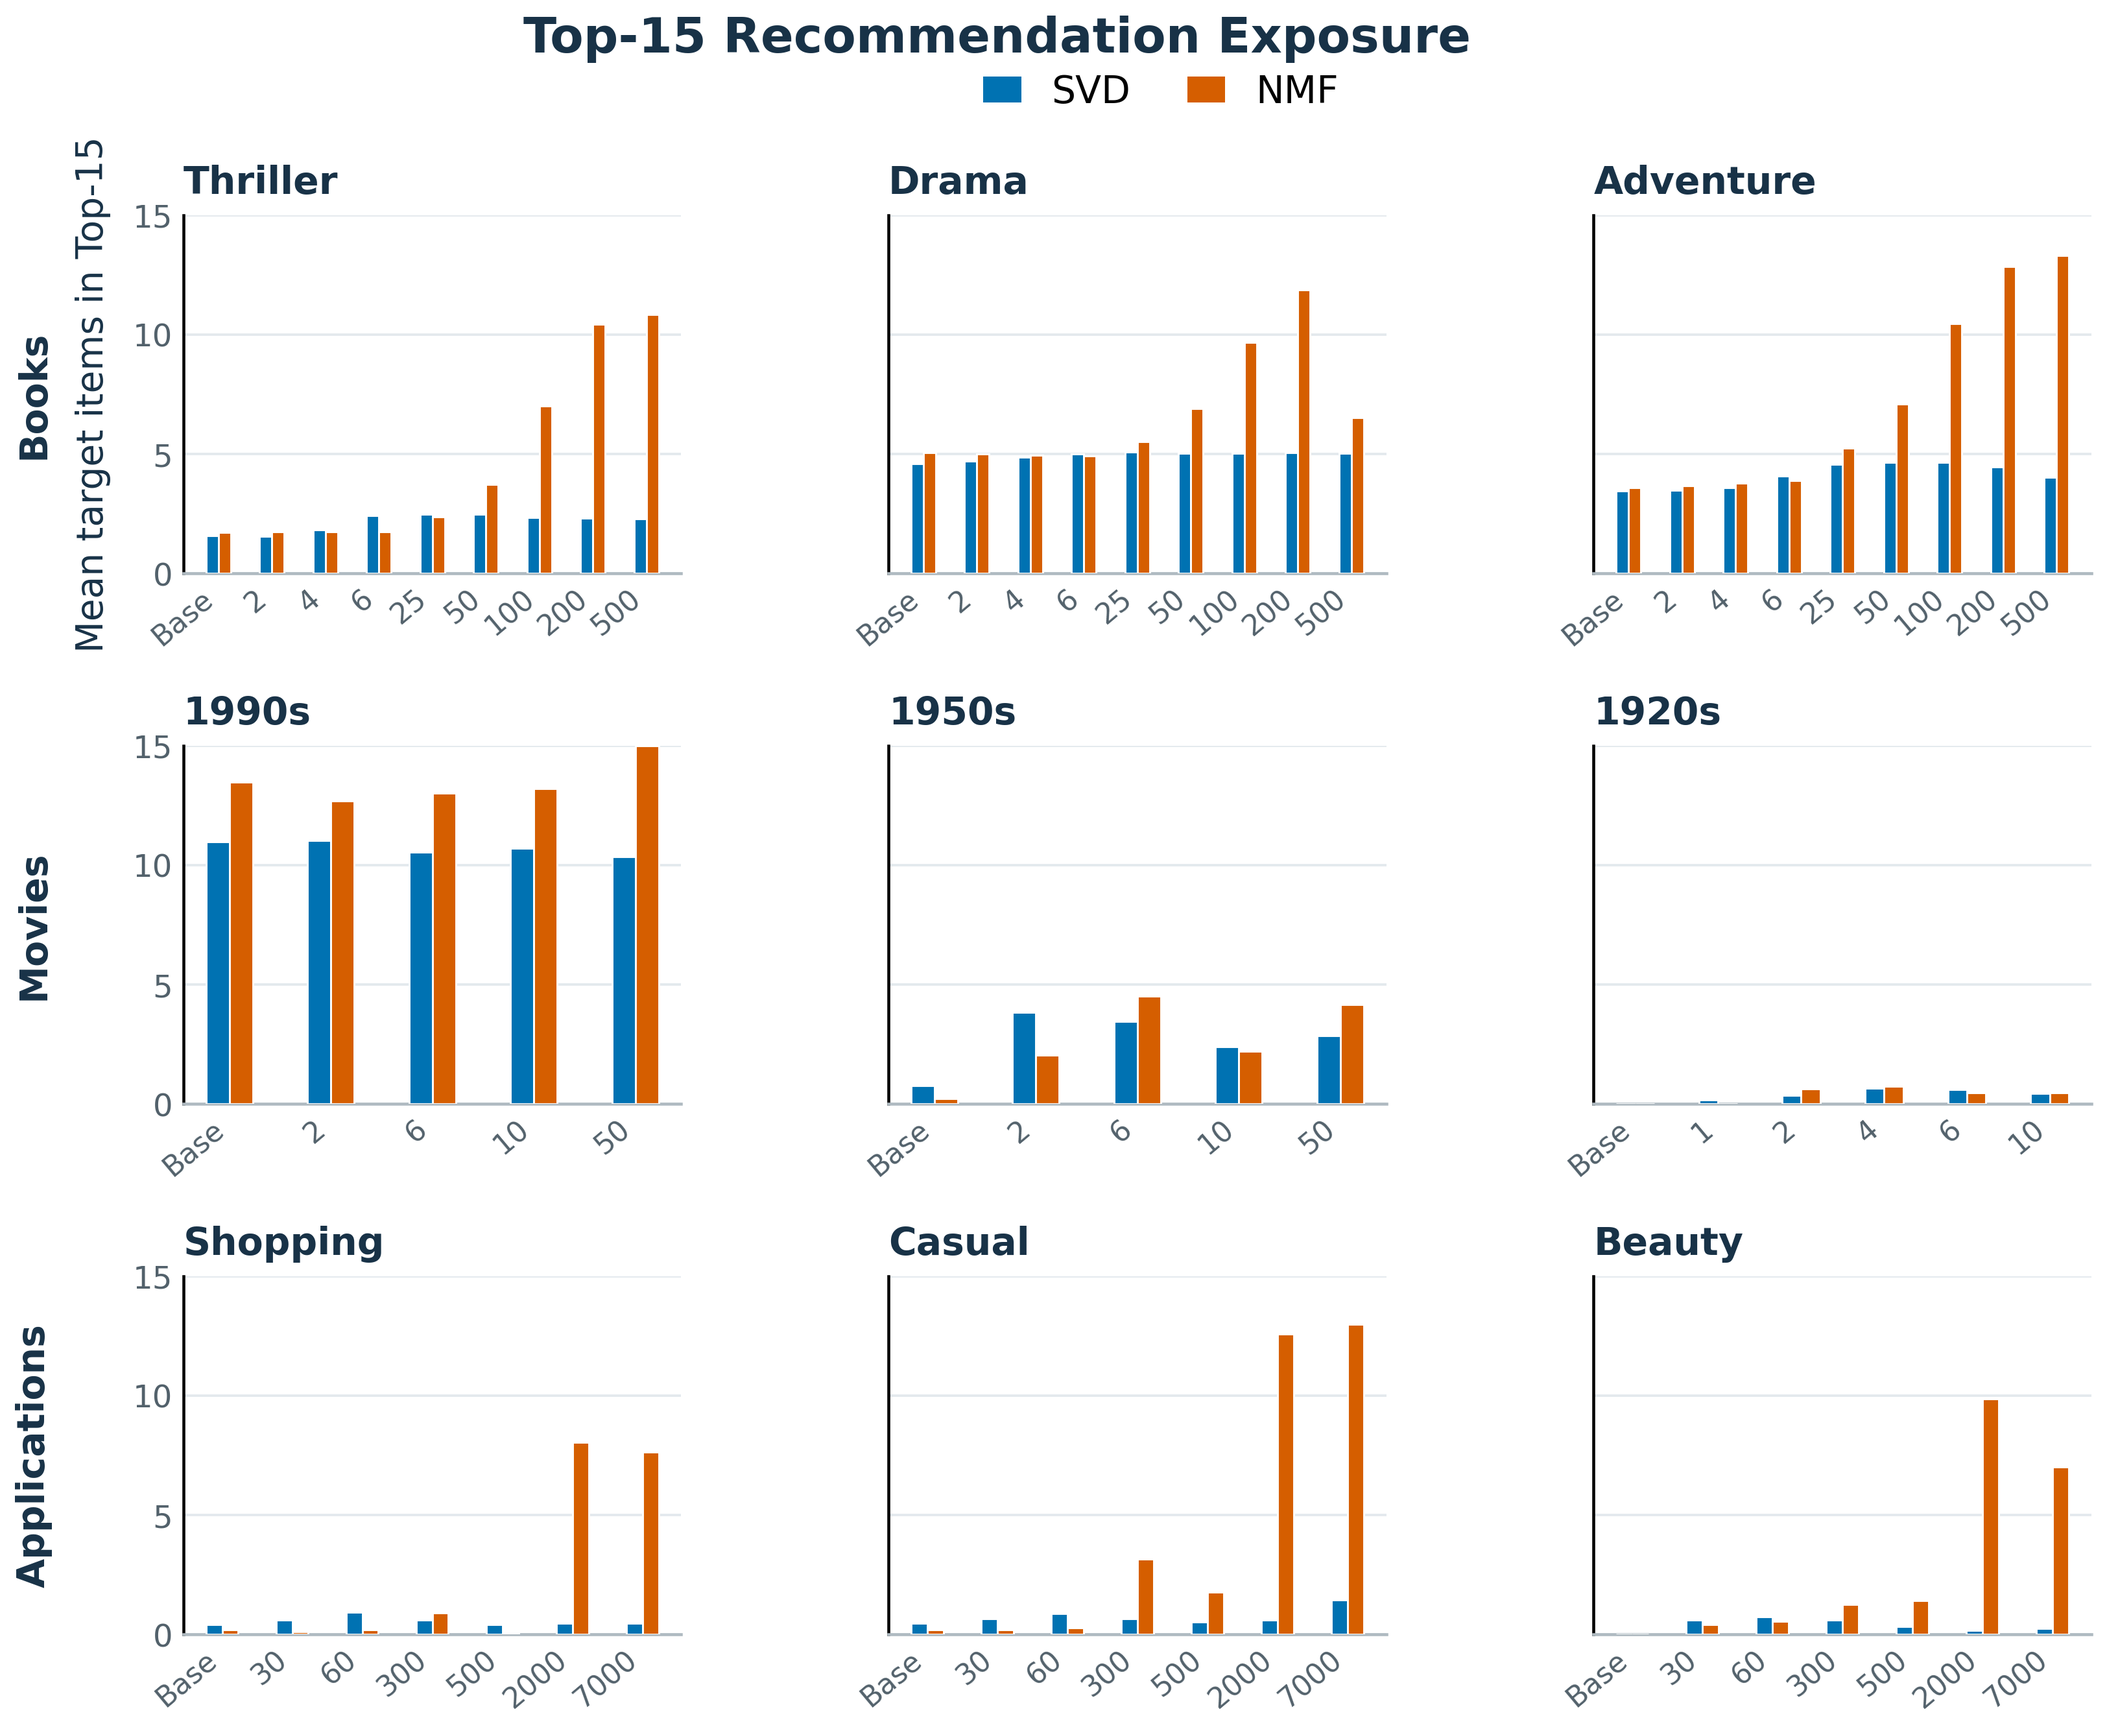
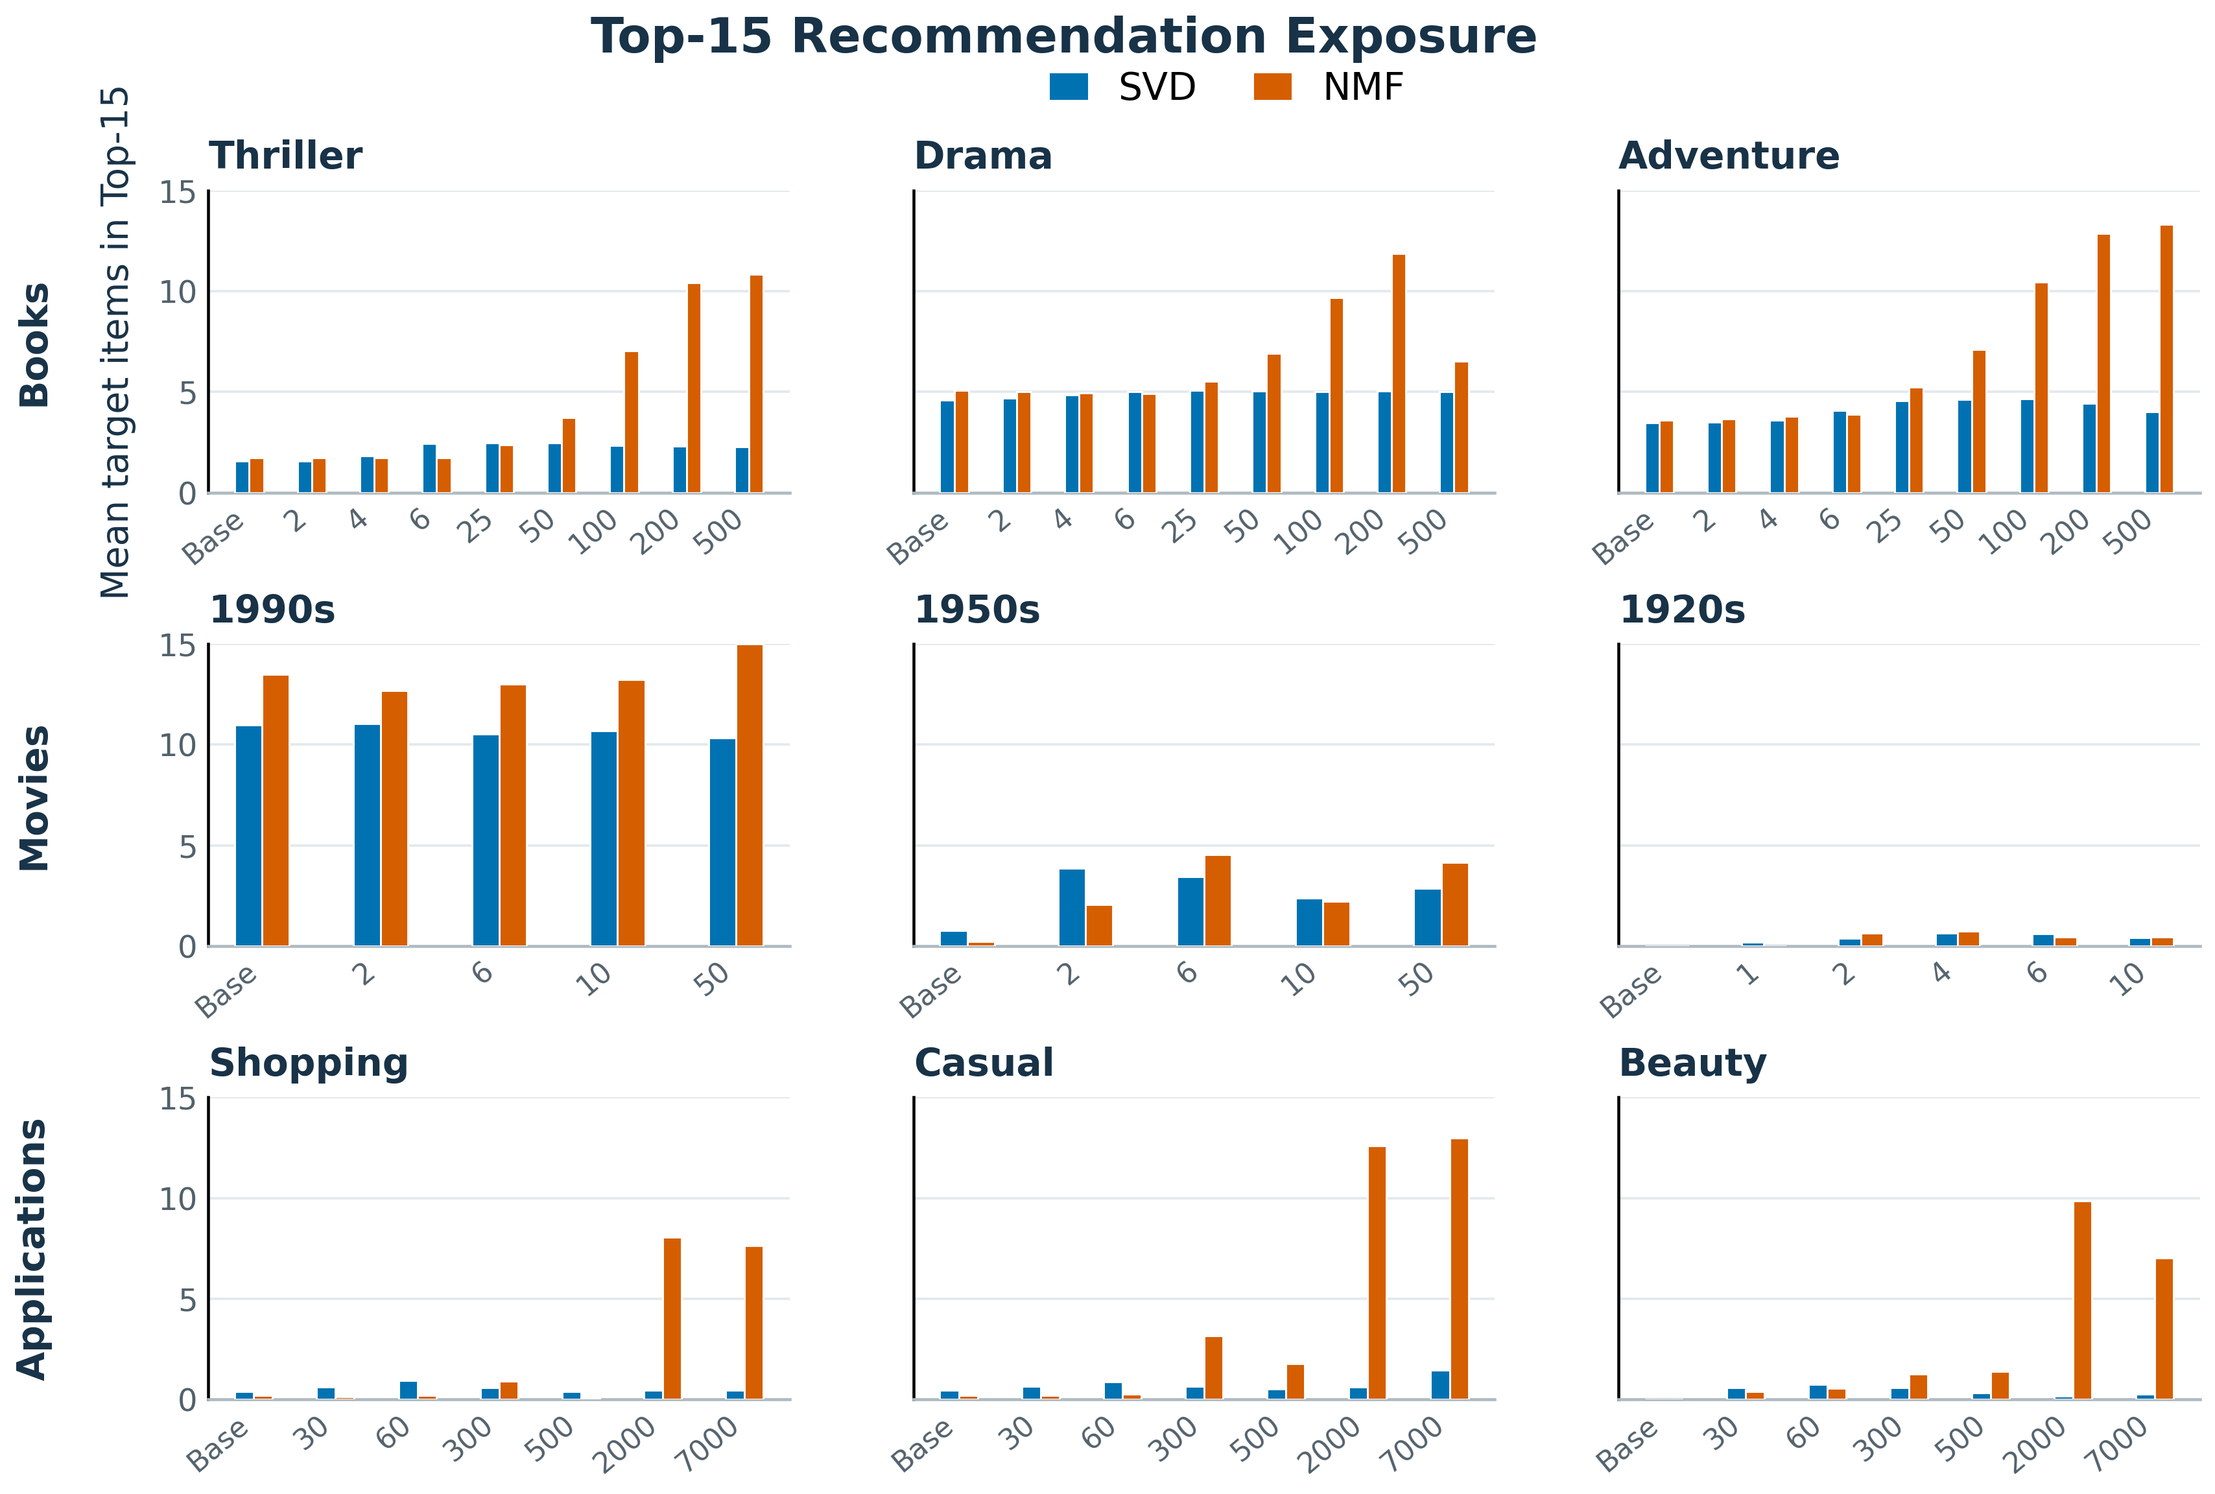
Shorten exposure plot y axes further

diff --git a/First_paper_material/notebook/build_compact_3x3_exposure.py b/First_paper_material/notebook/build_compact_3x3_exposure.py
@@ -13,7 +13,7 @@ adv=pd.read_csv(T/"adventure_recommendation_summary.csv")
 layout=[("Books",["Thriller","Drama","Adventure"]),("Movies",["1990s","1950s","1920s"]),("Applications",["Shopping","Casual","Beauty"])]
 plt.rcParams.update({"font.family":"DejaVu Sans","font.size":7,"axes.titlesize":7,"axes.titleweight":"bold","axes.labelsize":6.8,"xtick.labelsize":5.3,"ytick.labelsize":5.8,"axes.spines.top":False,"axes.spines.right":False,"axes.linewidth":.55,"figure.facecolor":"white","savefig.facecolor":"white"})
 colors={"nmf":"#D55E00","svd":"#0072B2"}
-fig,axs=plt.subplots(3,3,figsize=(6.0,4.8),sharey=True)
+fig,axs=plt.subplots(3,3,figsize=(6.0,4.2),sharey=True)
 for row,(domain,categories) in enumerate(layout):
  for col,cat in enumerate(categories):
   if domain=="Books":
@@ -24,7 +24,7 @@ for row,(domain,categories) in enumerate(layout):
    d=pd.read_csv(N/(stem+"_top15_diagnostic_counts.csv"))
   ns=sorted(d.n_fake.unique());x=np.arange(len(ns))
   ax=axs[row,col]
-  ax.set_box_aspect(.72)
+  ax.set_box_aspect(.52)
   for j,model in enumerate(["svd","nmf"]):
    dm=d[d.model==model].set_index("n_fake")
    assert not dm.index.duplicated().any()
@@ -43,7 +43,7 @@ for row,(domain,categories) in enumerate(layout):
 axs[0,0].set_ylabel("Mean target items in Top-15",color="#183247",labelpad=4)
 fig.legend(handles=[Patch(facecolor=colors[m],label=m.upper()) for m in ["svd","nmf"]],loc="upper center",bbox_to_anchor=(.57,.984),ncol=2,frameon=False,fontsize=7,handlelength=1,columnspacing=1.5)
 fig.suptitle("Top-15 Recommendation Exposure",x=.5,y=.997,fontsize=9,fontweight="bold",color="#183247")
-fig.subplots_adjust(left=.13,right=.99,top=.89,bottom=.13,hspace=.48,wspace=.18)
+fig.subplots_adjust(left=.13,right=.99,top=.89,bottom=.15,hspace=.50,wspace=.18)
 out=M/"figures/recommendation_mobile_shopping.png"
 fig.savefig(out,dpi=600,bbox_inches="tight",pad_inches=.04)
 print(out)
